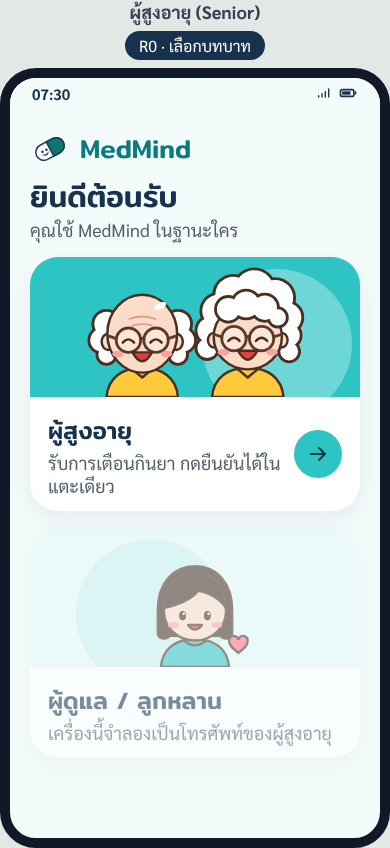
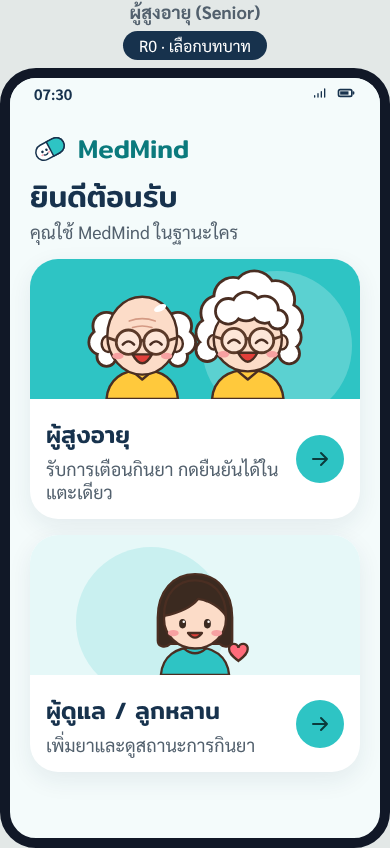
Let both phones pick either role on the role-select screen
Both role cards are now active on both phones. Picking the other role swaps
the two phones so the phone that was tapped becomes the chosen role; a role
the other phone already picked is disabled (one caregiver per senior,
BR-02). Recaptured R0 and updated prototype/README and design-system.md.

Also removes the shots/ folder of test screenshots that was committed by
mistake in a65a3c6.

Claude-Session: https://claude.ai/code/session_0154Tu7g4DM9q181YzCmu6eo

diff --git a/prototype/src/app.js b/prototype/src/app.js
@@ -21,6 +21,7 @@
     S = {
       store: M.createStore(), now: startAt === undefined ? T('07:30') : startAt,
       role: { senior: false, caregiver: false },   // หน้า R0: แต่ละเครื่องเลือกบทบาทของตัวเองก่อน
+      swapped: false,   // เครื่องซ้ายเลือก "ผู้ดูแล" → สลับตำแหน่งโทรศัพท์ ให้เครื่องที่กดเป็นบทบาทที่เลือก
       soundOn: false, reminderOpen: false, dismissed: {}, ringing: false,
       cgTab: 'C1', cgMsg: null, srMsg: null, cameraAllowed: true,
       draft: null, draftNote: null, unreadable: [], mealDraft: null, saved: null,
@@ -140,14 +141,14 @@
   /* ---------- R0 เลือกบทบาท (ขึ้นทั้ง 2 เครื่อง · แต่ละเครื่องเลือกได้เฉพาะบทบาทของตัวเอง) ---------- */
 
   function roleScreen(side) {
-    const owner = side === 'senior' ? 'ผู้สูงอายุ' : 'ผู้ดูแล';
+    // เลือกได้ทั้ง 2 บทบาท · บทบาทที่อีกเครื่องเลือกไปแล้วกดไม่ได้ (Senior 1 คน มี Caregiver 1 คน — BR-02)
     const card = (key, title, desc, art, tone) => {
-      const mine = key === side;
-      return '<button class="role-card" data-act="role" data-side="' + side + '"' + (mine ? '' : ' disabled') + '>' +
+      const taken = S.role[key];
+      return '<button class="role-card" data-act="role" data-side="' + side + '" data-role="' + key + '"' + (taken ? ' disabled' : '') + '>' +
         '<span class="role-art ' + tone + '">' + art + '</span>' +
         '<span class="role-body"><span class="role-text"><span class="role-title">' + title + '</span>' +
-        '<span class="muted">' + (mine ? desc : 'เครื่องนี้จำลองเป็นโทรศัพท์ของ' + owner) + '</span></span>' +
-        (mine ? '<span class="role-go">' + I.svg('arrow', 24) + '</span>' : '') + '</span></button>';
+        '<span class="muted">' + (taken ? 'อีกเครื่องเลือกบทบาทนี้แล้ว' : desc) + '</span></span>' +
+        (taken ? '' : '<span class="role-go">' + I.svg('arrow', 24) + '</span>') + '</span></button>';
     };
     return '<div class="brand">' + I.mascot(40) + '<span>MedMind</span></div>' +
       '<h3 class="page-title">ยินดีต้อนรับ</h3><p class="muted lead">คุณใช้ MedMind ในฐานะใคร</p>' +
@@ -442,7 +443,10 @@
       '<ul class="log">' + S.log.map((l) => '<li>' + esc(l) + '</li>').join('') + '</ul>';
   }
 
-  function render() { renderDemo(); renderSenior(); renderCaregiver(); refreshDraft(); S.ringing = false; }
+  function render() {
+    document.querySelector('.phones').classList.toggle('swapped', !!S.swapped);
+    renderDemo(); renderSenior(); renderCaregiver(); refreshDraft(); S.ringing = false;
+  }
 
   /* ---------- สถานการณ์ตัวอย่าง ---------- */
 
@@ -450,7 +454,7 @@
     stopAuto(); stopReal();
     const basic = name === 'basic';
     reset(basic ? T('07:55') : T('06:40'));
-    S.role = { senior: true, caregiver: true };   // สถานการณ์ตัวอย่างข้ามหน้าเลือกบทบาท
+    S.role = { senior: true, caregiver: true }; S.swapped = false;   // สถานการณ์ตัวอย่างข้ามหน้าเลือกบทบาท
     M.consent(S.store, S.now); tryPair(CAREGIVER, S.store.invite.code);
     M.setMealTimes(S.store, basic ? { breakfast: T('08:00'), lunch: T('12:00'), dinner: T('18:00'), bedtime: T('21:00') }
                                   : { breakfast: T('07:00'), lunch: T('12:00'), dinner: T('18:00'), bedtime: T('21:00') });
@@ -520,7 +524,13 @@
         log('Caregiver คนที่ 2 → ' + (r.ok ? 'จับคู่สำเร็จ' : PAIR_ERRORS[r.error]));
         break;
       }
-      case 'role': S.role[t.dataset.side] = true; log((t.dataset.side === 'senior' ? 'Senior' : 'Caregiver') + ' เลือกบทบาท'); break;
+      case 'role': {
+        const r = t.dataset.role;
+        if (S.role[r]) break;
+        if (r !== t.dataset.side) S.swapped = !S.swapped;   // เครื่องที่กดกลายเป็นบทบาทที่เลือก
+        S.role[r] = true; log((r === 'senior' ? 'Senior' : 'Caregiver') + ' เลือกบทบาท');
+        break;
+      }
       case 'role-back': S.role[t.dataset.side] = false; break;
       case 'sound': enableSound(); break;
       case 'consent': M.consent(S.store, S.now); log('Senior กดยินยอม'); break;

diff --git a/prototype/src/app.css b/prototype/src/app.css
@@ -20,6 +20,7 @@ button, input, select, textarea { font: inherit; }
 
 /* ---------- โทรศัพท์ 2 เครื่อง ---------- */
 .phones { display: flex; flex-wrap: wrap; gap: 24px; justify-content: center; padding: 20px 12px 40px; }
+.phones.swapped > .phone-wrap:first-child { order: 2; }   /* เครื่องซ้ายเลือก "ผู้ดูแล" */
 .phone-wrap { display: flex; flex-direction: column; align-items: center; gap: 8px; }
 .phone-wrap h2 { margin: 0; font-size: 18px; color: var(--color-text-muted); }
 /* ป้าย "Covers: FR-x" อยู่นอกจอโทรศัพท์ (ป้ายสำหรับผู้ตรวจตอน demo) */

diff --git a/docs/03-design/design-system.md b/docs/03-design/design-system.md
@@ -170,7 +170,7 @@
 | เมนูล่าง (Tabs) | `.tabs` | สลับ สถานะ / เพิ่มยา / จับคู่ ของผู้ดูแล | `--color-surface`, `--shadow-nav`, `--color-mint` (แท็บที่เลือก) | ซ่อนระหว่างกรอกร่างยา (ใช้แถบปุ่มล่างแทน) | C1–C3 |
 | แถบปุ่มล่าง (Bottom bar) | `.bottom-bar` | ยกเลิก / บันทึก ของฟอร์ม | `--shadow-bar` | บันทึกกดไม่ได้จนกรอกครบ | C2 |
 | กล่องยืนยัน (Dialog) | `.dialog` | ยืนยันการกระทำที่กู้ไม่ได้ (ยกเลิกการจับคู่ BR-17) | `--color-scrim`, `--color-disabled-bg` (ที่จับ) | — | S3, C1 |
-| การ์ดเลือกบทบาท (Role card) | `.role-card` | เลือกผู้สูงอายุ / ผู้ดูแล | `--color-mint`, `--color-mint-soft`, `--color-mint-ring` | `:disabled` บทบาทของอีกเครื่อง | R0 |
+| การ์ดเลือกบทบาท (Role card) | `.role-card` | เลือกผู้สูงอายุ / ผู้ดูแล | `--color-mint`, `--color-mint-soft`, `--color-mint-ring` | เลือกได้ทั้ง 2 ใบ · `:disabled` เมื่ออีกเครื่องเลือกบทบาทนั้นแล้ว | R0 |
 | ปุ่มเลือกวัน (Day chips) | `.day-chip` | เลือกวันในสัปดาห์ที่กินยา | `--color-mint` (เลือก) / `--color-mint-soft` | ไม่เลือกเลย = การ์ด `.missing` | C2 |
 | การ์ดวันที่ (Date card) | `.date-card` | วันเริ่มต้น / วันสิ้นสุด (ตัวเลือกวันที่ ไม่ต้องพิมพ์) | `--color-mint-soft` | "ไม่มีวันสิ้นสุด" · `.missing` วันสิ้นสุดก่อนวันเริ่ม | C2 |
 | แถบเปิดเสียง (Banner) | `.banner` | ขอให้แตะเพื่อเปิดเสียงเตือน (ADR-01) | `--color-mint-soft`, `--color-primary` | — | S2, S3 |
